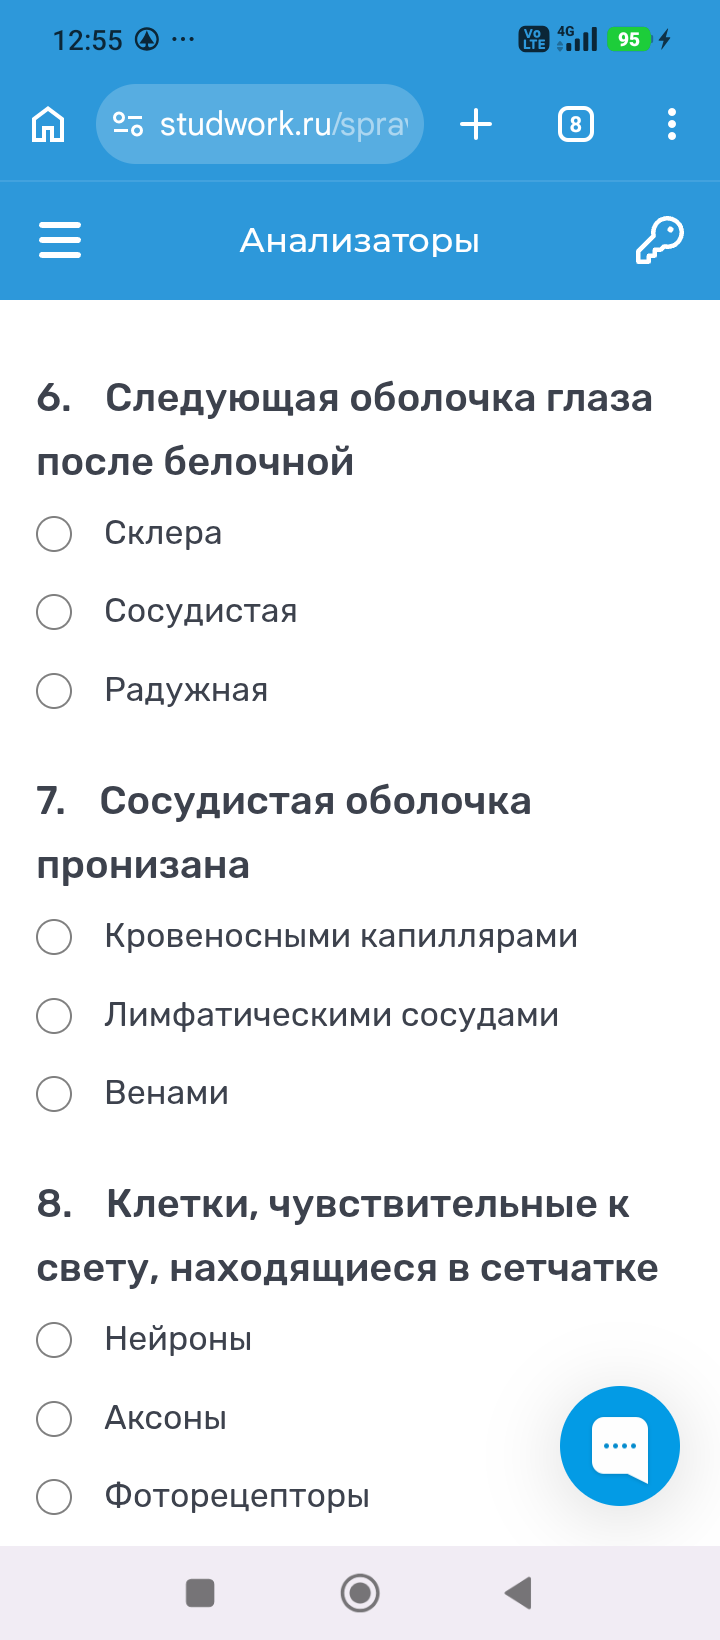
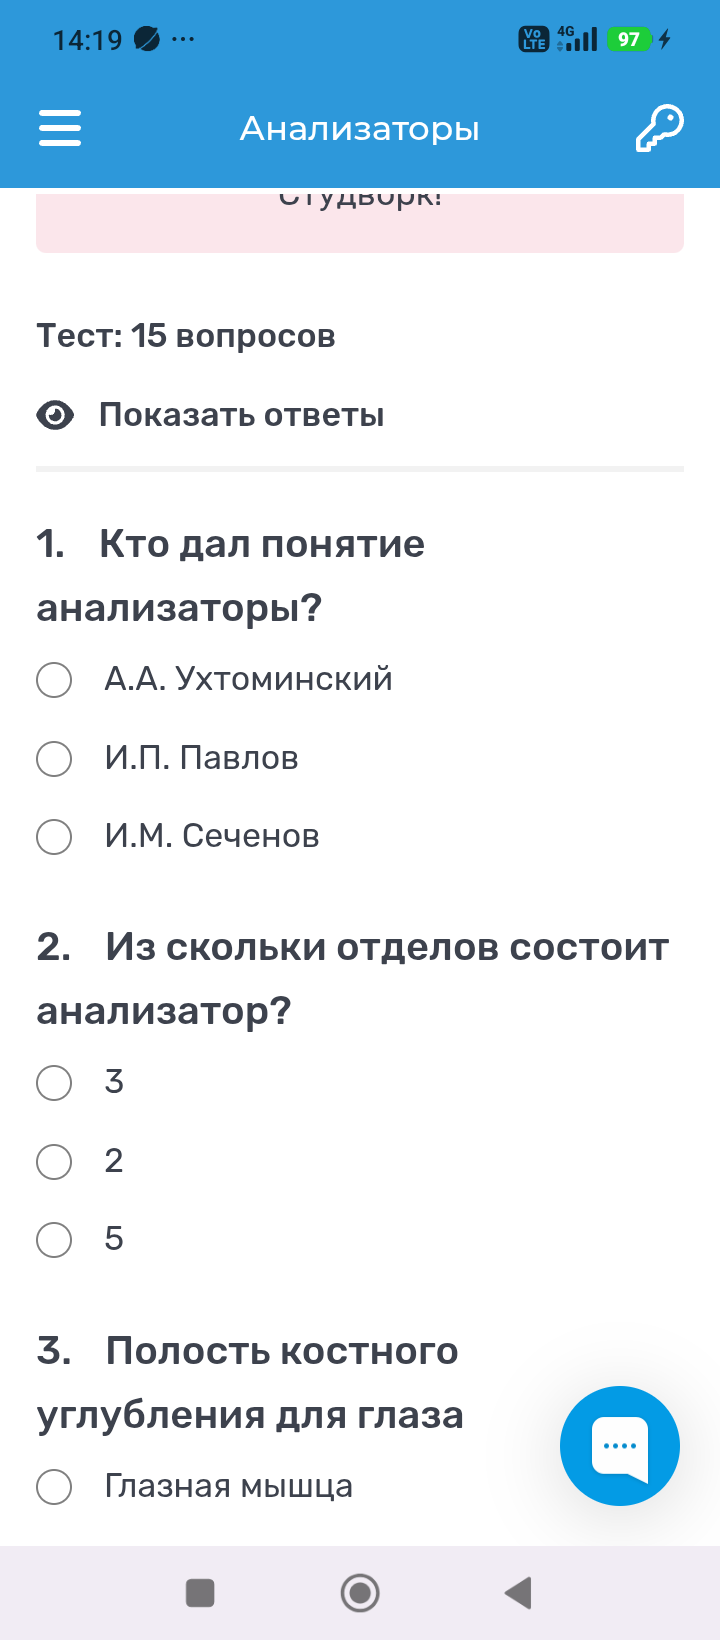
Changed Dotations a bit

Changed region(s): [[0.0, 0.0, 1.0, 0.9329], [0.1528, 0.9018, 0.5194, 0.9329]]

diff --git a/ocr_roi_mouse.py b/ocr_roi_mouse.py
@@ -487,6 +487,10 @@ def build_donate_screen() -> None:
         tk.Label(row, image=icon, fg=TEXT, cursor="hand2", bg=CARD, borderwidth=0).pack(
             side="left", padx=5
         )
+        if name != "BTC":
+            tk.Label(row, text="(Chain address - send any token)", fg=TEXT, cursor="hand2", bg=CARD, borderwidth=0).pack(
+                side="left", padx=5
+            )
 
         addr_label = tk.Label(
             row, text=address, fg=TEXT, cursor="hand2",
@@ -543,11 +547,11 @@ youtube_icon  = tk.PhotoImage(file=os.path.join("icons", "YT_icon.png"))
 # ── Donate data (must come after icons are loaded) ───────────────────────────
 DONATE_DATA = [
     ("BTC",            btc_icon,  "bc1qnjv8d2ecf3uwwugdf3jlxyc020e2ztc8s0zghv"),
-    ("ETH (any token)", eth_icon, "0x108e08febfbe3e47a9c15e484fd6587f4a0c6279"),
-    ("BNB (any token)", bnb_icon, "0x108e08febfbe3e47a9c15e484fd6587f4a0c6279"),
-    ("SOL (any token)", sol_icon, "GEgnqADD4WJTDz1syRMyaK9qjn2jhhEknhreoZwWXT9T"),
-    ("TON (any token)", ton_icon, "UQBZb8OHkXr08m1CWM_eGX40TMbeIUAVEWQeMLKl8RWZ2462"),
-    ("TRX (any token)", tron_icon,"TJxdGZTtp9MeXF2EijYAR4BK5wNH99kJgW"),
+    ("ETH", eth_icon, "0x108e08febfbe3e47a9c15e484fd6587f4a0c6279"),
+    ("BNB", bnb_icon, "0x108e08febfbe3e47a9c15e484fd6587f4a0c6279"),
+    ("SOL", sol_icon, "GEgnqADD4WJTDz1syRMyaK9qjn2jhhEknhreoZwWXT9T"),
+    ("TON", ton_icon, "UQBZb8OHkXr08m1CWM_eGX40TMbeIUAVEWQeMLKl8RWZ2462"),
+    ("TRX", tron_icon,"TJxdGZTtp9MeXF2EijYAR4BK5wNH99kJgW"),
 ]
 
 # ── Main frame: header ────────────────────────────────────────────────────────